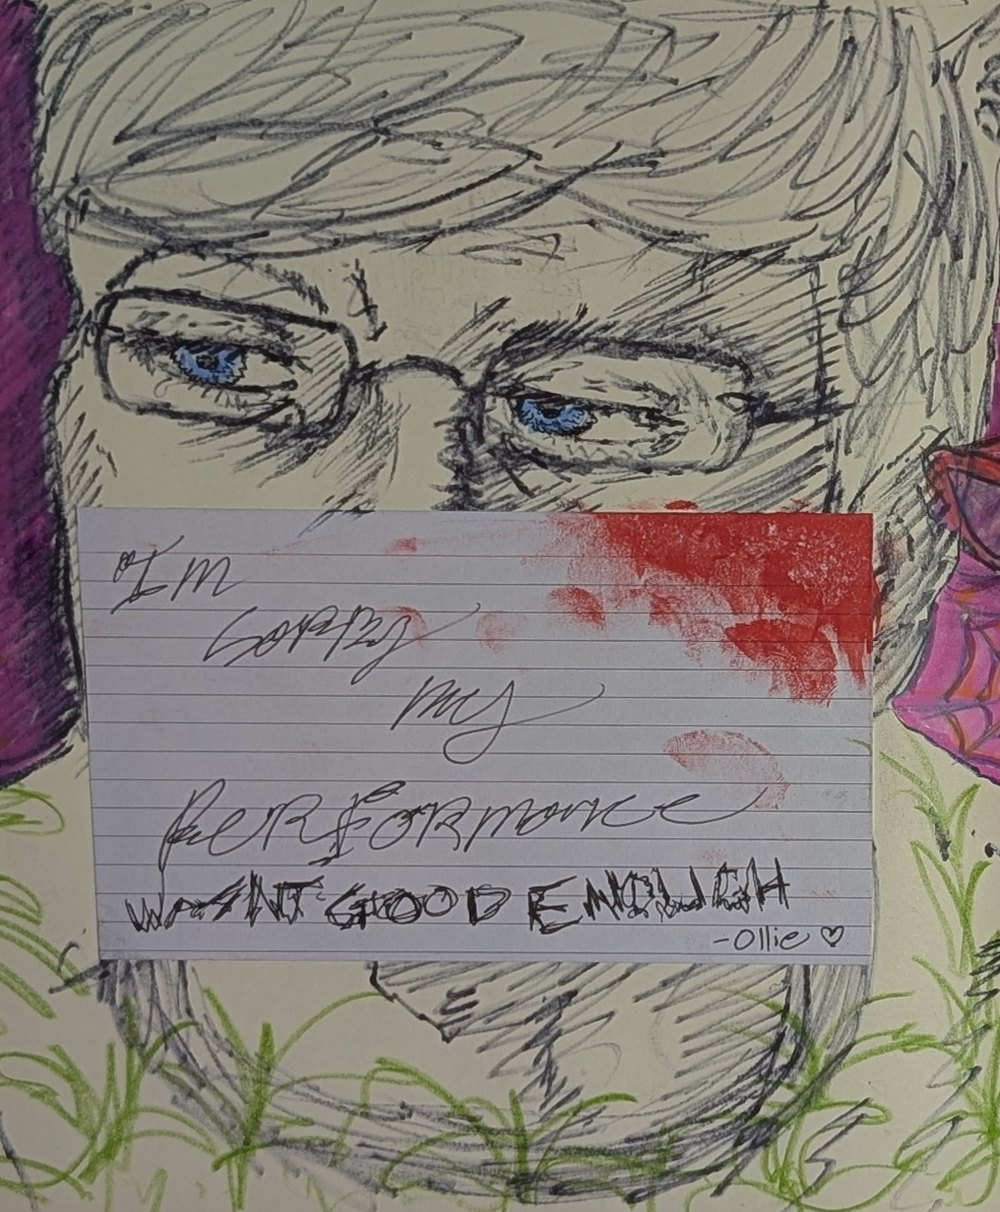
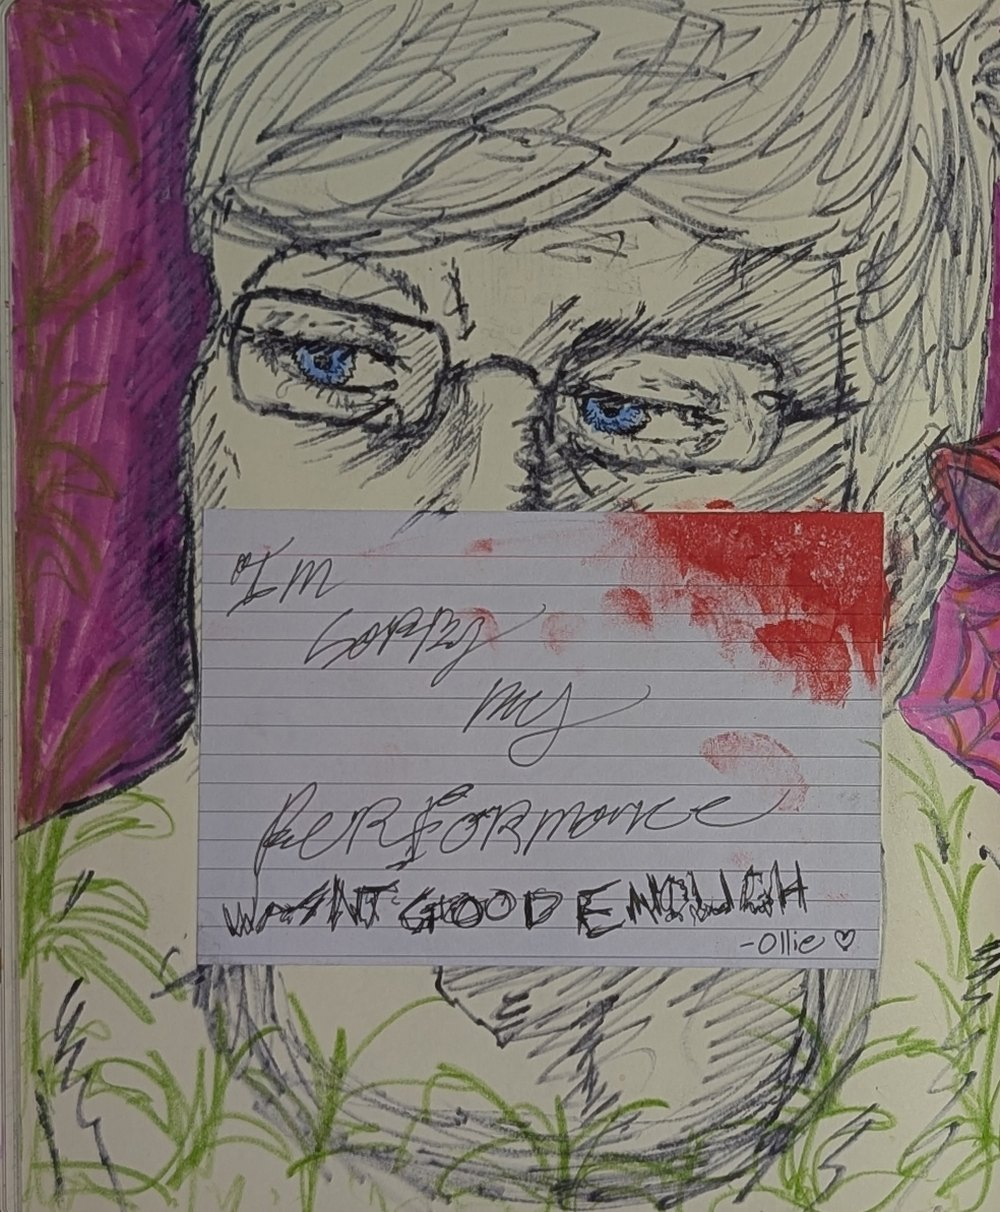
Sketchbook 02 p.76–77 recrop; viewer lets you pan past the page edges when zoomed in
Claude-Session: https://claude.ai/code/session_01TzEbzKnx1r17NEvvY1x4wh

diff --git a/js/sketchbooks.js b/js/sketchbooks.js
@@ -1121,7 +1121,8 @@ function viewerFrame(now) {
   const tz = V.fitD / V.zoom;
   // keep the view on the book: the further in, the further you can pan (none at 1×)
   const cs = Math.abs(Math.cos(V.spin)), sn = Math.abs(Math.sin(V.spin)), free = Math.max(0, 1 - 1 / V.zoom);
-  const rx = (cs * V.W + sn * V.H / 2) * 1.05 * free, ry = (sn * V.W + cs * V.H / 2) * 1.05 * free;
+  // room to pan a little past the page edges too (a sticky note can flip out past the page)
+  const rx = (cs * V.W * 1.6 + sn * V.H / 2 * 1.3) * free, ry = (sn * V.W * 1.6 + cs * V.H / 2 * 1.3) * free;
   V.fx = clamp(V.fx, -rx, rx); V.fy = clamp(V.fy, -0.04 - ry, -0.04 + ry);
   const tx = V.fx, ty = V.fy;
   const kk = V.holdCam ? 0 : V.gesture ? 1 - Math.exp(-dt * 30) : k;   // follow fingers tightly, ease otherwise
